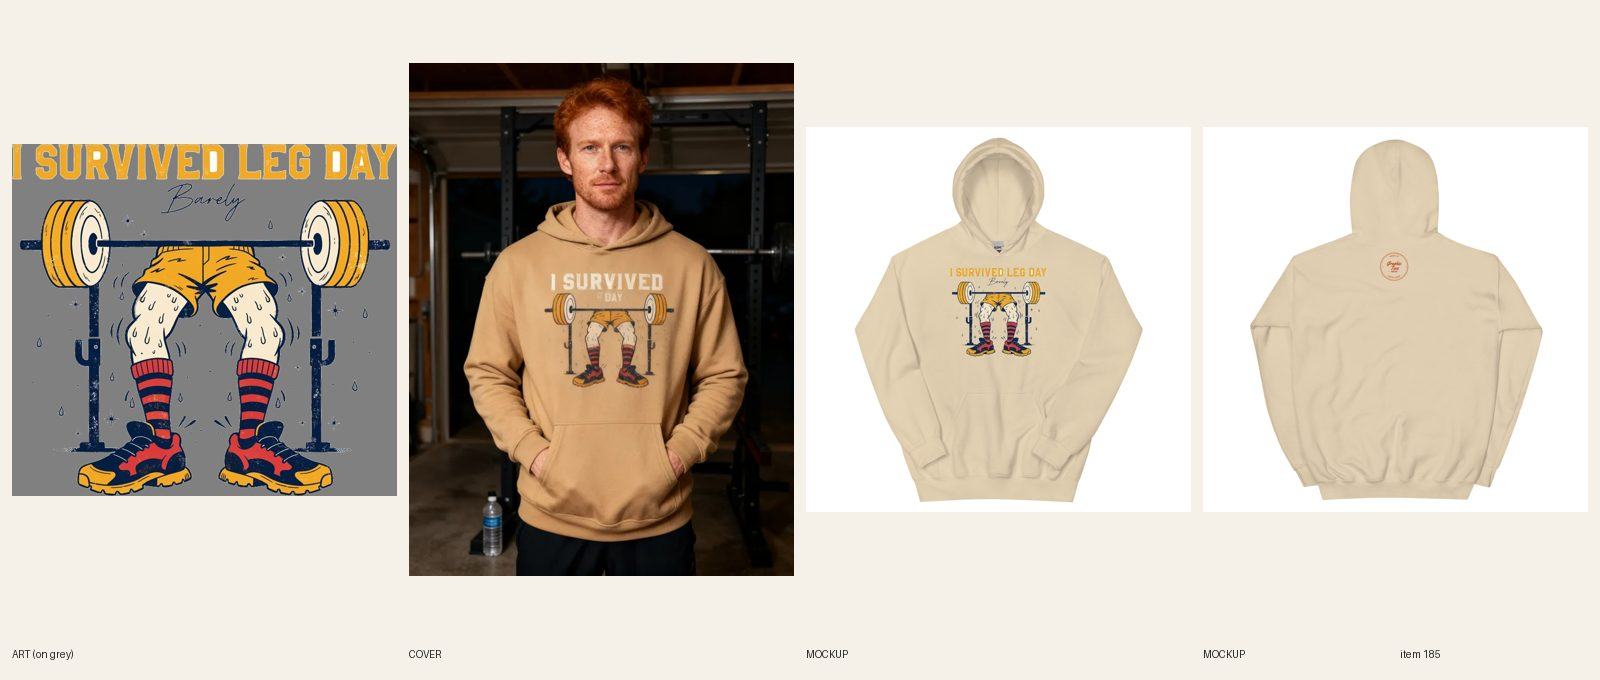
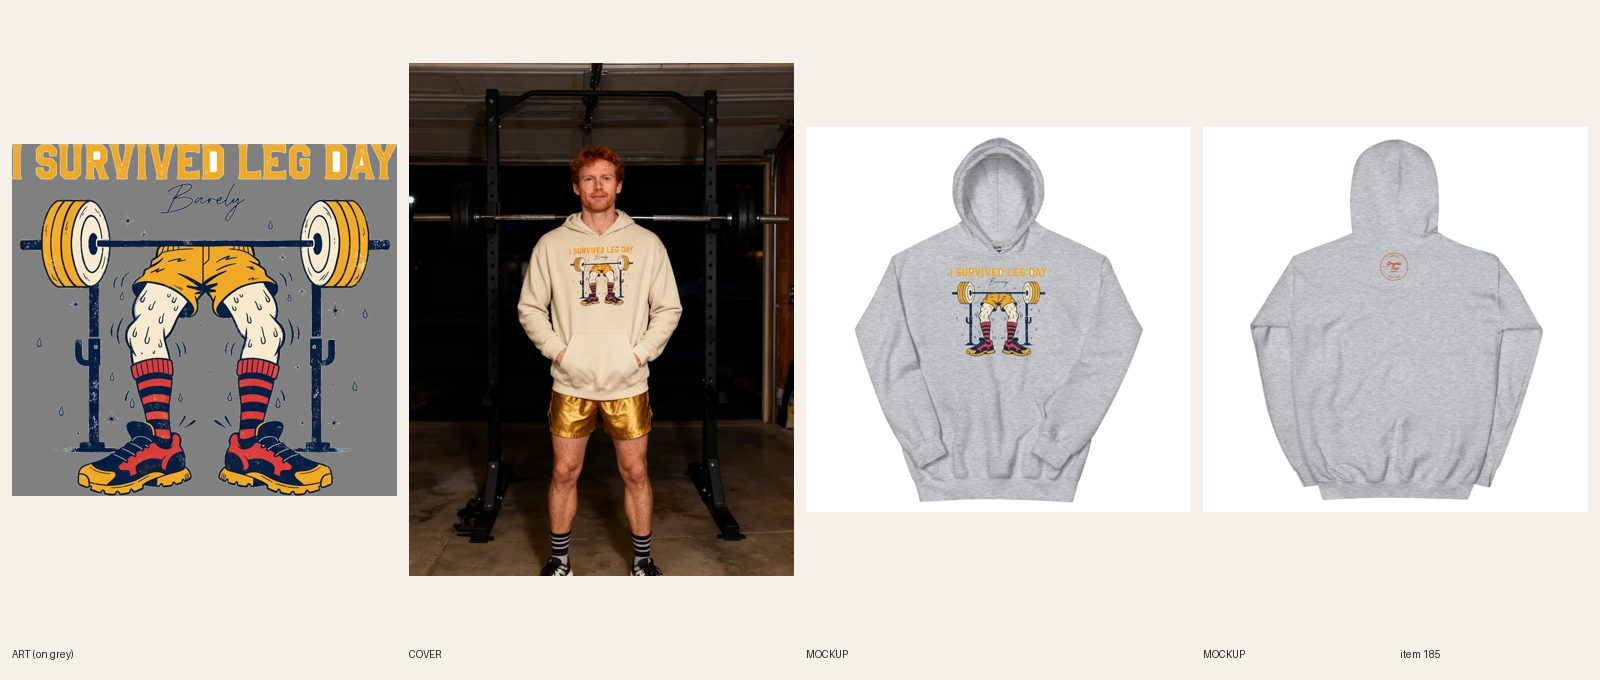
[B] redo 185 cover -> review

Changed region(s): [[0.25, 0.0926, 0.5, 0.8647], [0.7812, 0.1853, 0.9688, 0.7412], [0.5312, 0.1853, 0.7188, 0.7412]]

diff --git a/docs/intake-log.md b/docs/intake-log.md
@@ -1,3 +1,4 @@
+2026-10-16 18:48 UTC — [B] REVIEW #185 (redo): cover only (R6.9 redo): generated from the Sand front mockup with 3 images per call; picked the one that shows the hood and the whole line I SURVIVED LEG DAY, hands in the pouch pocket (the other two images looked like crewnecks).
 2026-10-16 18:46 UTC — [B] REVIEW #178 (redo): cover only (R6.9 redo): generated from the Sport Grey BACK mockup with 3 images per call; plain cotton-fleece hood resting behind the neck, DEER DIARY and the buck fully readable, no zipper on the back.
 2026-10-16 18:44 UTC — [H] Helper run: Telegram inbox empty (getUpdates returned no messages, nothing to consume). Audit: 184 live products, 0 errors, 7 warnings (polish only, left alone); no price, SEO or collection errors to fix. Announcement bar already reads the holiday line (R12.3). Site freshness: #191 nutcracker bow hoodie, #190 highland cow hoodie, #184 clean plate club hoodie all return 200. Stuck check: none. Lane A last commit 18:30, lane B committed 18:41 (its RUNNING line is from 16:36 but the lane is active, so no alert). Daily summary already sent today (12:43). Lock released.
 2026-10-16 18:44 UTC — [B] REVIEW #157 (redo): cover only (R6.9 redo): new model (registry row 400, short cropped hair) so nothing crosses the print, generated from the Black mockup with 3 images per call, covers.ts alt updated. #227's long-braid row is retired.

diff --git a/docs/pipeline/185-gym-hoodie-leg-day-survivor.md b/docs/pipeline/185-gym-hoodie-leg-day-survivor.md
@@ -1,4 +1,4 @@
-status: BUILDING [B] 2026-10-16
+status: REVIEW
 lane: B
 type: twin
 id: 185
@@ -22,3 +22,4 @@ handle: mens-gym-leg-day-survivor-hoodie
 - 2026-10-16 18:40 UTC director: REDO (product stays DRAFT). Notes:
   1. R6.8 (cover words): the cover reads "I SURVIVED ... DAY": the word LEG is missing, so the joke is lost. The hoodie is also a darker tan than Sand. One more attempt under R6.9 (new line): generate from the Sand front mockup as the --design reference, hands in the pocket, read every word against the art before saving.
   2. Product, copy, sync and mockups are fine: only the cover changes.
+- 2026-10-16 18:48 UTC [B]: REDO done: cover only (R6.9 redo): generated from the Sand front mockup with 3 images per call; picked the one that shows the hood and the whole line I SURVIVED LEG DAY, hands in the pouch pocket (the other two images looked like crewnecks). Review sheet docs/review/185.jpg.
